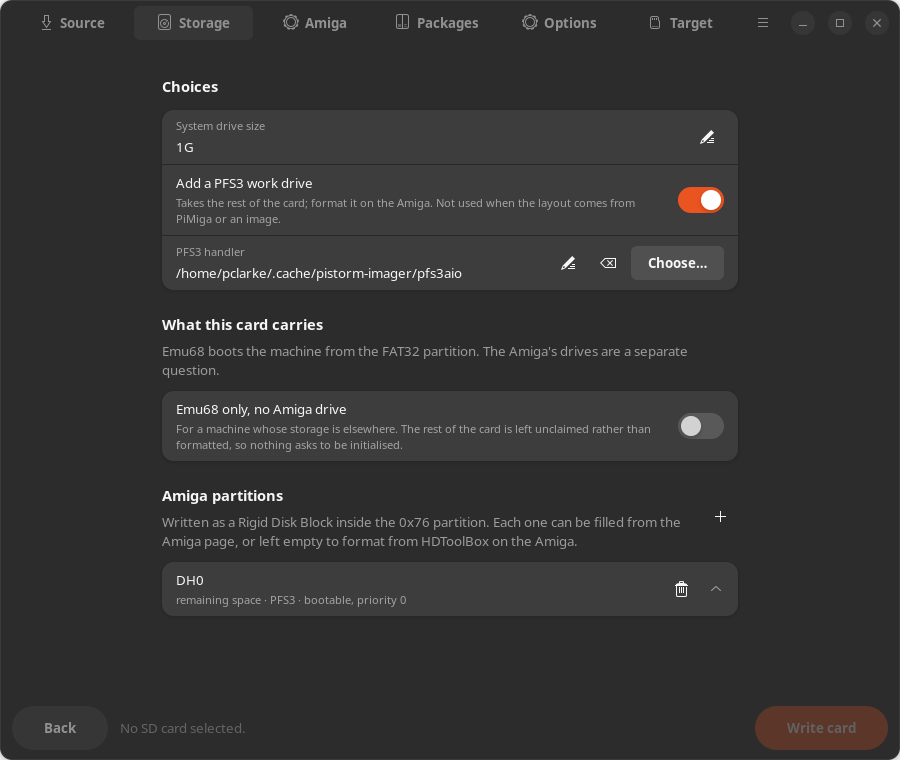
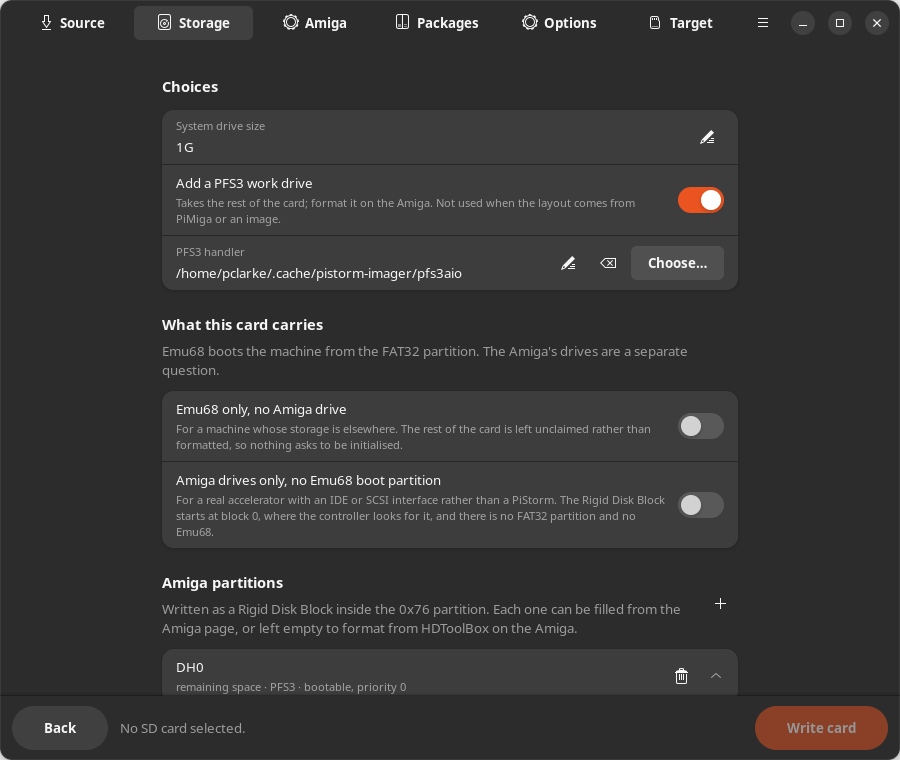
Build a card for a real accelerator: Amiga drives, no boot partition
Switching Emu68 off never removed the FAT32 boot partition, because
there was no way to ask for a card without one. "Amiga drives only, no
Emu68 boot partition" is that way, and the mirror of the boot-only switch
it now sits beside.

A real accelerator with an IDE or SCSI interface reads a Rigid Disk Block
at block 0 and knows nothing about an MBR, so such a card carries no DOS
partition table at all - the RDB is the partition table. The bytes for
that were already being produced for the .hdf output; this makes the
shape reachable for a card or an image, with the whole device given to
the Amiga drives.

Emu68 lives on the boot partition, so with no boot partition it cannot be
installed: the switch is forced off and made insensitive, saying why.
Everywhere else it stays operable, because turning it off on its own is a
real thing to want - it refreshes a card without replacing the Emu68
already on it, which the suite already guards - and forcing it on there
would have broken that. Its description now says plainly that the boot
partition is still written either way, and points at the new switch for a
card without one.

The size check no longer reserves room for a boot partition that is not
going to exist, which had left the drives looking too big for the card.

Verified by building one: a 2 GiB image with AmigaOS 3.9 from the CD on a
PFS3 drive, read back off the written image - "RDSK" at block 0, no MBR
signature, the PFS3 handler embedded in the RDB, 2,146 files.

diff --git a/pistorm_imager/core/builder.py b/pistorm_imager/core/builder.py
@@ -127,6 +127,11 @@ class BuildConfig:
     #  be used. Distinct from an empty partition, which still takes the rest
     #  of the card and still appears on the desktop asking to be initialised.
     boot_only: bool = False
+    #  The mirror of boot_only: Amiga drives and no Emu68 boot partition at
+    #  all.  A real accelerator with an IDE interface reads a Rigid Disk Block
+    #  at block 0 and knows nothing about an MBR, so a card for one carries no
+    #  partition table - the RDB *is* the partition table.
+    amiga_only: bool = False
     amiga_partitions: list[AmigaPartitionSpec] = dataclasses.field(
         default_factory=lambda: [AmigaPartitionSpec("DH0", None, "PFS3", True, 0)])
     pfs3_binary: str = ""              # optional pfs3aio to embed in the RDB
@@ -408,6 +413,16 @@ class BuildConfig:
         if self.mode is BuildMode.FRESH:
             if self.boot_size < 64 * MIB and not self.output_hdf:
                 problems.append("The boot partition must be at least 64 MiB.")
+            if self.amiga_only and self.boot_only:
+                problems.append(
+                    "A card cannot be both Emu68 only and Amiga drives only.")
+            if self.amiga_only and self.install_emu68:
+                problems.append(
+                    "Emu68 needs a boot partition, and an Amiga-drives-only "
+                    "card has none.")
+            if self.amiga_only and not self.amiga_partitions:
+                problems.append(
+                    "An Amiga-drives-only card needs at least one drive.")
             if self.boot_only and self.output_hdf:
                 problems.append(
                     "A bare Amiga hard disk image is the Amiga drive on its "
@@ -422,13 +437,13 @@ class BuildConfig:
             #  Everything has to fit the card that was asked for. Nothing
             #  checked, so a layout larger than the image was accepted and
             #  the drives were simply laid out past the end of it.
-            overhead = 0 if self.output_hdf else (
+            overhead = 0 if (self.output_hdf or self.amiga_only) else (
                 (DEFAULT_BOOT_START * SECTOR) + self.boot_size)
             fixed = sum(p.size or 0 for p in self.amiga_partitions)
             flexible = any(p.size is None for p in self.amiga_partitions)
             if overhead + fixed > self.image_size:
                 over = overhead + fixed - self.image_size
-                with_boot = ("" if self.output_hdf else
+                with_boot = ("" if (self.output_hdf or self.amiga_only) else
                              f", which with the {human_size(self.boot_size)} "
                              f"boot partition")
                 problems.append(
@@ -2217,8 +2232,22 @@ def _write_partition_table(handle, config: BuildConfig, total_size: int,
     says it is - Emu68 and a Kickstart, with the storage left to whatever the
     Amiga already has.
     """
-    progress.step("Creating the partition table")
     total_sectors = total_size // SECTOR
+    if config.amiga_only:
+        #  No MBR at all.  An Amiga IDE controller reads a Rigid Disk Block at
+        #  block 0; a DOS partition table there is not something it looks for,
+        #  and the RDB has to start where it expects it.  So the whole device
+        #  is the Amiga partition and nothing precedes it.
+        progress.step("Laying the card out for an Amiga controller")
+        progress.log("No MBR: the Rigid Disk Block starts at block 0, which is "
+                     "where an Amiga IDE or SCSI controller looks for it.")
+        progress.log(f"Amiga drives: {human_size(total_size)}, the whole card")
+        #  Wipe anything at the head that a controller might read instead.
+        handle.seek(0)
+        handle.write(b"\0" * (DEFAULT_BOOT_START * SECTOR))
+        return None, mbr.MbrPartition(0, 0x00, mbr.TYPE_AMIGA, 0, total_sectors)
+
+    progress.step("Creating the partition table")
     boot_start = DEFAULT_BOOT_START
     boot_sectors = align_up(config.boot_size, MIB) // SECTOR
     amiga_start = align_up(boot_start + boot_sectors, MIB // SECTOR)
@@ -3007,18 +3036,25 @@ def _run_build(config: BuildConfig, progress: Progress) -> None:
             if config.mode in (BuildMode.FRESH, BuildMode.HDF):
                 boot_part, amiga_part = _write_partition_table(
                     handle, config, target_size, progress)
+                #  An Amiga-drives-only card has no boot partition to make or
+                #  copy, so the whole FAT32 pass is skipped rather than made
+                #  to cope with a partition that is not there.
 
-                progress.step("Creating the FAT32 boot partition")
-                boot_image = _make_boot_filesystem(boot_part.size_bytes, workdir, progress)
-                with open(boot_image, "r+b") as boot_handle:
-                    fs = Fat32(boot_handle)
-                    _populate_boot(fs, config, emu68_files, emu68_root, progress)
-                    boot_handle.flush()
-                    os.fsync(boot_handle.fileno())
-                progress.step("Copying the boot partition onto the card")
-                with open(boot_image, "rb") as boot_handle:
-                    handle.seek(boot_part.start_bytes)
-                    copy_stream(boot_handle, handle, boot_part.size_bytes, progress)
+                if boot_part is not None:
+                    progress.step("Creating the FAT32 boot partition")
+                    boot_image = _make_boot_filesystem(boot_part.size_bytes,
+                                                       workdir, progress)
+                    with open(boot_image, "r+b") as boot_handle:
+                        fs = Fat32(boot_handle)
+                        _populate_boot(fs, config, emu68_files, emu68_root,
+                                       progress)
+                        boot_handle.flush()
+                        os.fsync(boot_handle.fileno())
+                    progress.step("Copying the boot partition onto the card")
+                    with open(boot_image, "rb") as boot_handle:
+                        handle.seek(boot_part.start_bytes)
+                        copy_stream(boot_handle, handle, boot_part.size_bytes,
+                                    progress)
 
                 if amiga_part is None:
                     #  Boot-only: there is no Amiga drive on this card, so

diff --git a/pistorm_imager/ui/window.py b/pistorm_imager/ui/window.py
@@ -95,7 +95,7 @@ KEPT_ACROSS_QUICK_SETUP = (
     #  What is providing the processor, and the CD install, are decided by a
     #  person rather than by the machine or the layout, so a quick setup has
     #  no opinion about them and must not throw them away.
-    "accelerator", "accelerator_cpu",
+    "accelerator", "accelerator_cpu", "amiga_only",
     "os_cd", "os_cd_release", "boingbag_archives", "boingbags",
     "boingbag_emulator",
 )
@@ -2211,6 +2211,20 @@ class ImagerWindow(Adw.ApplicationWindow):
         self.boot_only_row.connect("notify::active",
                                    lambda *_a: self._boot_only_changed())
         self.boot_only_group.add(self.boot_only_row)
+        #  The mirror of it: drives and no boot partition.  A real accelerator
+        #  with an IDE or SCSI controller reads a Rigid Disk Block at block 0
+        #  and knows nothing about an MBR, so a card for one carries no
+        #  partition table at all - the RDB is the partition table.
+        self.amiga_only_row = Adw.SwitchRow(
+            title="Amiga drives only, no Emu68 boot partition",
+            subtitle="For a real accelerator with an IDE or SCSI interface "
+                     "rather than a PiStorm. The Rigid Disk Block starts at "
+                     "block 0, where the controller looks for it, and there "
+                     "is no FAT32 partition and no Emu68.")
+        self.amiga_only_row.set_active(False)
+        self.amiga_only_row.connect("notify::active",
+                                    lambda *_a: self._amiga_only_changed())
+        self.boot_only_group.add(self.amiga_only_row)
         page.add(self.boot_only_group)
 
         self.partition_group = Adw.PreferencesGroup(
@@ -2754,6 +2768,53 @@ class ImagerWindow(Adw.ApplicationWindow):
             widget = getattr(self, group, None)
             if widget is not None:
                 widget.set_visible(not only)
+        #  The two are opposite answers to the same question, so one rules the
+        #  other out rather than being allowed to contradict it.
+        if only and self.amiga_only_row.get_active():
+            self.amiga_only_row.set_active(False)
+        self._update_summary()
+
+    def _amiga_only_changed(self) -> None:
+        """Drives and no boot partition, which decides Emu68 with it.
+
+        Emu68 lives on the FAT32 boot partition, so a card without one cannot
+        carry it and a card with one is not worth building without it. Rather
+        than let the two disagree, the Emu68 switch follows this one and says
+        why it cannot be operated - a switch that can only produce a card that
+        does not boot is worse than no switch.
+        """
+        amiga_only = self.amiga_only_row.get_active()
+        if amiga_only and self.boot_only_row.get_active():
+            self.boot_only_row.set_active(False)
+        if amiga_only:
+            #  Remembered, because turning this off again should give back the
+            #  answer that was there rather than an assumed one.
+            self._emu68_before_amiga_only = self.install_emu_row.get_active()
+            self.install_emu_row.set_active(False)
+            self.install_emu_row.set_subtitle(
+                "There is no boot partition on this card to put Emu68 on.")
+        else:
+            #  Only put back an answer this switch actually took away.  With
+            #  nothing stashed there is nothing to restore, and assuming a
+            #  default here switched Emu68 back on for anyone who had turned
+            #  it off for their own reasons.
+            if hasattr(self, "_emu68_before_amiga_only"):
+                self.install_emu_row.set_active(self._emu68_before_amiga_only)
+                del self._emu68_before_amiga_only
+            self.install_emu_row.set_subtitle(
+                "Off refreshes a card without replacing the Emu68 already on "
+                "it. The FAT32 boot partition is still written either way - "
+                "for a card with no boot partition at all, use \u201cAmiga "
+                "drives only\u201d above.")
+        #  Only forced where it genuinely cannot be honoured.  Turning Emu68
+        #  off on its own is a real thing to want - it refreshes a card
+        #  without replacing what is already on it - so the switch stays
+        #  operable except when there is nowhere to install it.
+        self.install_emu_row.set_sensitive(not amiga_only)
+        for group in ("boot_group", "kickstart_group", "group_kickstart"):
+            widget = getattr(self, group, None)
+            if widget is not None:
+                widget.set_visible(not amiga_only)
         self._update_summary()
 
     def _add_partition(self, spec: builder.AmigaPartitionSpec | None = None) -> None:
@@ -3838,6 +3899,7 @@ class ImagerWindow(Adw.ApplicationWindow):
             patch_display=self.patch_display_row.get_active(),
             boot_size=boot_size,
             boot_only=self.boot_only_row.get_active(),
+            amiga_only=self.amiga_only_row.get_active(),
             #  The rows are kept while the switch is on, so the layout
             #  survives being asked a different question - but they must not
             #  reach a card that is not going to have them.
@@ -4504,6 +4566,8 @@ class ImagerWindow(Adw.ApplicationWindow):
         self.patch_display_row.set_active(config.patch_display)
         self.expand_row.set_active(config.expand_to_fill)
         self.boot_only_row.set_active(config.boot_only)
+        self.amiga_only_row.set_active(config.amiga_only)
+        self._amiga_only_changed()
         self._boot_only_changed()
         for row in list(self.extra_rows):
             self.expand_group.remove(row)

diff --git a/tests/test_amigacd.py b/tests/test_amigacd.py
@@ -630,6 +630,61 @@ class WhatThePlanSays(unittest.TestCase):
         self.assertNotIn("PiStorm", stock)
 
 
+class ACardForARealAccelerator(unittest.TestCase):
+    """Amiga drives and no Emu68 boot partition.
+
+    A real accelerator with an IDE or SCSI interface reads a Rigid Disk Block
+    at block 0 and knows nothing about an MBR, so a card for one carries no
+    DOS partition table at all - the RDB is the partition table.
+    """
+
+    def config(self, **overrides):
+        from pistorm_imager.core import builder                    # noqa: PLC0415
+        base = dict(
+            mode=builder.BuildMode.FRESH, target="/tmp/ide.img",
+            image_size=2 * 1024 * 1024 * 1024,
+            amiga_only=True, install_emu68=False,
+            amiga_partitions=[builder.AmigaPartitionSpec(
+                name="DH0", size=None, dostype="PFS3", bootable=True)])
+        base.update(overrides)
+        return builder.BuildConfig(**base)
+
+    def test_it_cannot_also_be_a_boot_only_card(self):
+        """They are opposite answers to the same question."""
+        problems = self.config(boot_only=True).validate()
+        self.assertTrue(any("both" in p for p in problems), problems)
+
+    def test_emu68_has_nowhere_to_go_on_one(self):
+        problems = self.config(install_emu68=True).validate()
+        self.assertTrue(any("boot partition" in p for p in problems), problems)
+
+    def test_it_needs_at_least_one_drive(self):
+        problems = self.config(amiga_partitions=[]).validate()
+        self.assertTrue(any("at least one drive" in p for p in problems),
+                        problems)
+
+    def test_no_room_is_reserved_for_a_boot_partition_that_is_not_there(self):
+        """Reserving it left the drives looking too big for the card."""
+        from pistorm_imager.core import builder                    # noqa: PLC0415
+        drives = [builder.AmigaPartitionSpec(
+            name="DH0", size=2 * 1024 * 1024 * 1024, dostype="PFS3",
+            bootable=True)]
+        #  Exactly the size of the card, which only fits with no boot partition.
+        self.assertEqual(self.config(amiga_partitions=drives).validate(), [])
+        crowded = self.config(amiga_only=False, install_emu68=True,
+                              amiga_partitions=drives).validate()
+        self.assertTrue(crowded, "with a boot partition it should not fit")
+
+    def test_the_plan_says_there_is_no_boot_partition(self):
+        from pistorm_imager.core import presets                    # noqa: PLC0415
+        said = presets.describe(self.config(), presets.Detected())
+        self.assertIn("No boot partition", said)
+        self.assertIn("block 0", said)
+        self.assertNotIn("FAT32", said)
+        #  And no complaint about a Kickstart, because nothing maps one.
+        self.assertNotIn("Kickstart", said)
+
+
 class AgainstTheRealDiscs(unittest.TestCase):
     """The synthetic shapes above are only worth as much as they resemble.
 

diff --git a/pistorm_imager/core/presets.py b/pistorm_imager/core/presets.py
@@ -277,10 +277,18 @@ def _describe_imported_drive(path: str) -> tuple[list[str], bool]:
 
 def describe(config: builder.BuildConfig, detected: Detected) -> str:
     """A plain account of what the build will actually put on the card."""
-    carries = "FAT32 with Emu68" if config.install_emu68 else \
-        "FAT32, without Emu68 - only what is put on it below"
-    lines = [f"Boot partition: {human_size(config.boot_size)} {carries}"]
-    if config.kickstart_path:
+    if getattr(config, "amiga_only", False):
+        #  No boot partition and no MBR: the card is Amiga drives and nothing
+        #  else, which is what a real accelerator's IDE controller reads.
+        lines = ["No boot partition: the Rigid Disk Block starts at block 0, "
+                 "for an Amiga IDE or SCSI controller rather than Emu68"]
+    else:
+        carries = "FAT32 with Emu68" if config.install_emu68 else \
+            "FAT32, without Emu68 - only what is put on it below"
+        lines = [f"Boot partition: {human_size(config.boot_size)} {carries}"]
+    if getattr(config, "amiga_only", False):
+        pass                    # nothing here maps a ROM; the machine has its own
+    elif config.kickstart_path:
         name = detected.kickstart.name if detected.kickstart else "Kickstart"
         lines.append(f"Kickstart: {name}")
     elif config.install_emu68:
